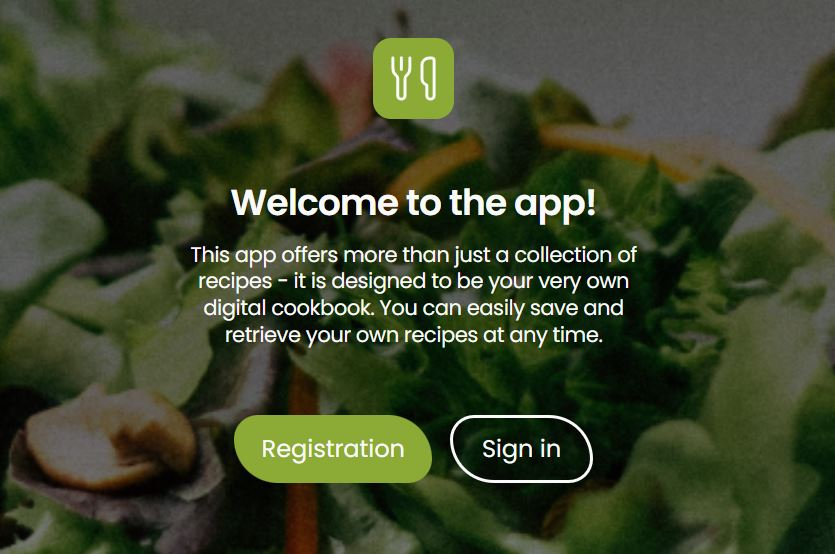
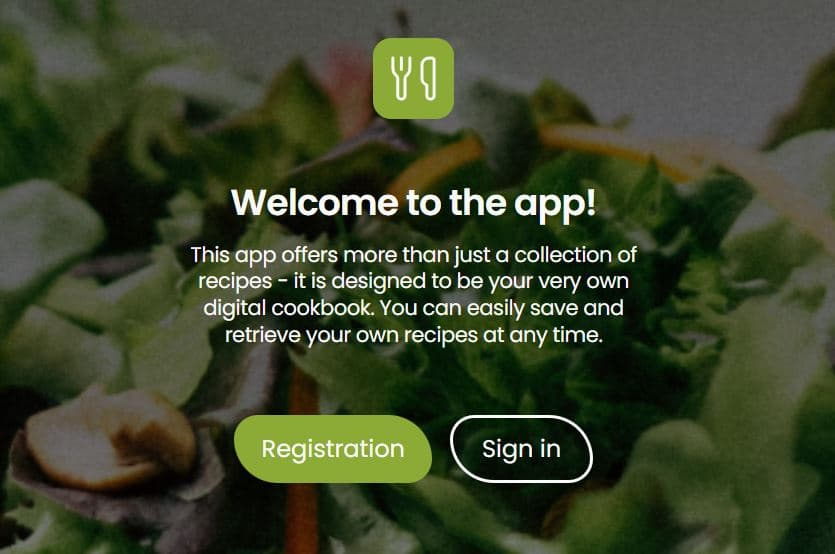
optimization images,added meta tag

diff --git a/src/template.html b/src/template.html
@@ -4,13 +4,23 @@
     <meta charset="UTF-8" />
     <meta name="viewport" content="width=device-width, initial-scale=1.0" />
     <title>Portfolio></title>
+    <meta
+      name="description"
+      content="Junior Frontend Developer. Розробка веб-сайтів з використанням React, CSS та JavaScript."
+    />
+    <meta
+      name="keywords"
+      content="Frontend Developer, React, JavaScript, Ірина Попова, Веб-розробка, CSS, HTML"
+    />
+    <meta name="author" content="Ірина Попова" />
     <link
-      rel="stylesheet"
+      rel="preload"
       href="https://cdnjs.cloudflare.com/ajax/libs/modern-normalize/1.0.0/modern-normalize.min.css"
+      as="style"
+      onload="this.onload=null;this.rel='stylesheet'"
     />
   </head>
   <body>
     <div id="root"></div>
-    <script src="https://smtpjs.com/v3/smtp.js"></script>
   </body>
 </html>

diff --git a/src/styles/hero.scss b/src/styles/hero.scss
@@ -48,7 +48,7 @@
   width: 220px;
   height: 220px;
   background: linear-gradient(to top, #ffd700, #0057b8);
-  animation: animate 4s linear infinite;
+  // animation: animate 4s linear infinite;
 }
 
 .hero__img-wrapper::after {
@@ -61,14 +61,14 @@
   height: 210px;
 }
 
-@keyframes animate {
-  0% {
-    transform: rotate(0deg);
-  }
-  100% {
-    transform: rotate(360deg);
-  }
-}
+// @keyframes animate {
+//   0% {
+//     transform: rotate(0deg);
+//   }
+//   100% {
+//     transform: rotate(360deg);
+//   }
+// }
 
 @media screen and (min-width: 768px) {
   .hero__title-wrapper {

diff --git a/src/index.js b/src/index.js
@@ -9,7 +9,7 @@ import news from "./assets/news.jpg";
 import foodSTA from "./assets/foodSTA.jpg";
 import SoYummy from "./assets/SoYummy.jpg";
 import zerno from "./assets/zerno.jpg";
-import photographer from "./assets/photographer.png";
+import photographer from "./assets/photographer.jpg";
 import sprite from "./assets/sprite.svg";
 import sprite2 from "./assets/sprite2.svg";
 import css from "./styles/main.scss";
